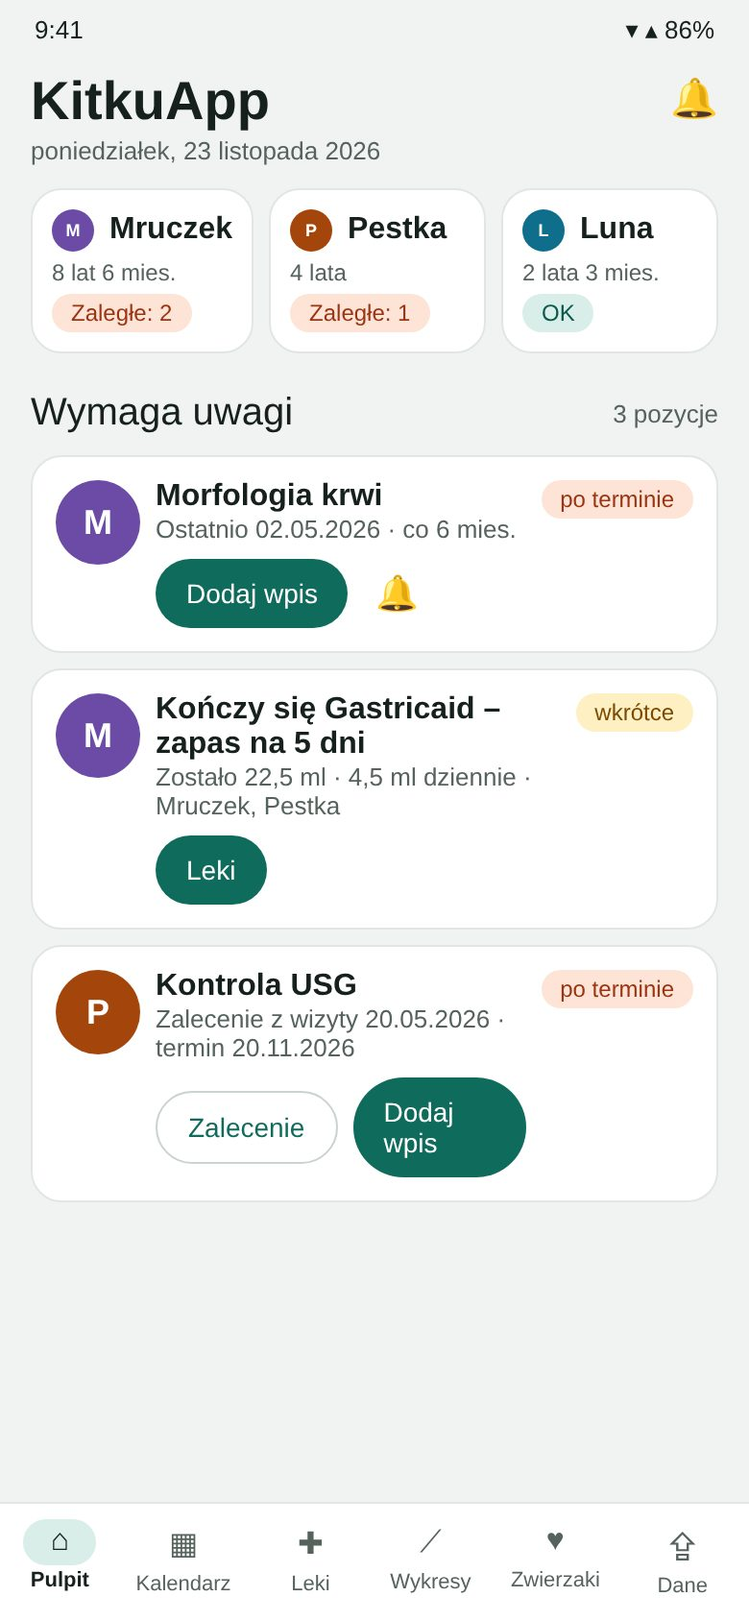
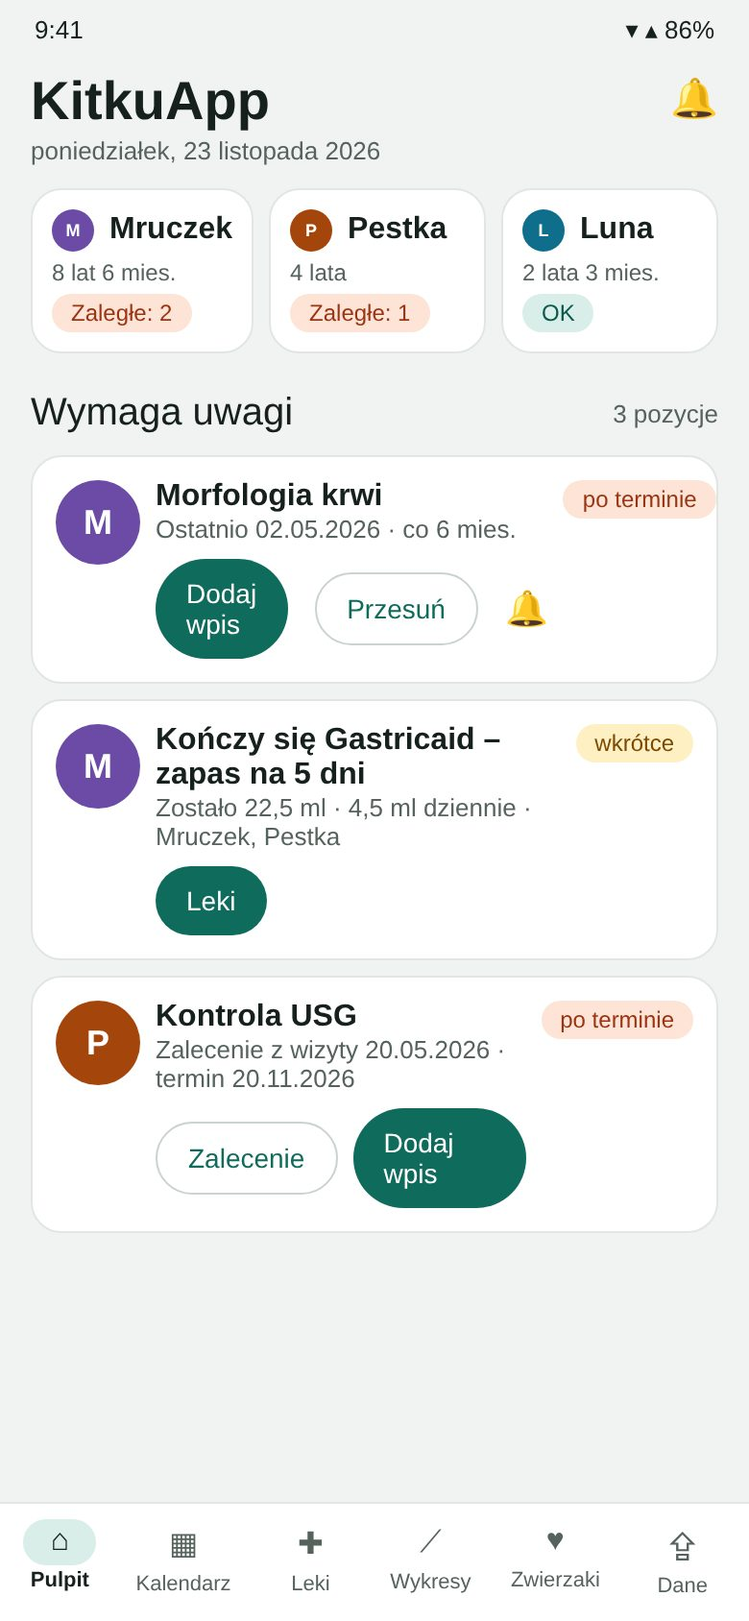
Zmiany 0.22.0, podręcznik: Przesuń na Pulpicie
Claude-Session: https://claude.ai/code/session_01Lz8gJxS2uki7r8oLhaRRUg

diff --git a/zmiany/index.html b/zmiany/index.html
@@ -8,5 +8,5 @@ main{max-width:760px;margin:0 auto;padding:clamp(28px,5vw,56px) max(5vw,18px) 64
 h1{font-size:clamp(30px,5vw,40px);line-height:1.1;margin:8px 0 18px}.ver{border-top:1px solid var(--line);padding:14px 0 4px}
 .ver h2{font-size:20px;margin:0 0 4px}.ver h2 span{font-size:15px;font-weight:400;color:var(--mut);margin-left:8px}ul{padding-left:22px;margin:6px 0}li{margin:4px 0}</style></head><body><main>
 <p><a href="../">← KitkuApp</a></p><h1>Historia zmian</h1>
-<section class="ver"><h2>0.21.2 <span>25.11.2026</span></h2><ul><li>Ocena bólu otwiera się jako zwykły ekran aplikacji – przycisk „Zapisz” jest zawsze nad dolnym paskiem i nie chowa się pod przyciskami telefonu.</li><li>Skrót „Oceń ból z mimiki pyszczka” w profilu kota i w Wykresach.</li></ul></section><section class="ver"><h2>0.21.1 <span>25.11.2026</span></h2><ul><li>Ocena bólu: ekran mieści się nad paskiem nawigacji telefonu – przycisk „Zapisz” jest zawsze dostępny; krótszy komunikat o progu bólu.</li></ul></section><section class="ver"><h2>0.21.0 <span>25.11.2026</span></h2><ul><li>Nowy pomiar domowy dla kotów: „Ocena bólu (mimika)” według Feline Grimace Scale – 5 cech pyszczka (uszy, oczy, pyszczek, wąsy, głowa) z ilustracjami 0 / 1 / 2.</li><li>Cechę, której nie widać, można pominąć (najwyżej 2) – wynik przeliczy się do skali 0–10.</li><li>Wynik trafia na wykres; od 4/10 jest poza normą, a aplikacja przypomina o kontakcie z lekarzem weterynarii.</li></ul></section><section class="ver"><h2>0.20.2 <span>25.11.2026</span></h2><ul><li>O aplikacji: pod linkiem do listy zmian jest link do podręcznika użytkownika.</li></ul></section><section class="ver"><h2>0.20.1 <span>24.11.2026</span></h2><ul><li>Wykresy: „Dodaj pomiar” jest teraz nad listą wcześniejszych pomiarów.</li><li>Pomiary domowe: usunięte ciśnienie rozkurczowe (u kotów ocenia się głównie skurczowe). Wartości rozkurczowe z wypisów nadal są na wykresach.</li></ul></section><section class="ver"><h2>0.20.0 <span>24.11.2026</span></h2><ul><li>Wykresy na osi czasu: punkty w odstępach zgodnych z datami, na osi lata (po przybliżeniu półrocza i kwartały).</li><li>Domyślnie widać ostatnie 3 lata; gdy pomiary obejmują krótszy okres – wszystkie.</li><li>Przeciągnięcie wykresu w lewo lub w prawo przesuwa widok w czasie; strzałki ‹ › w rogach pokazują, że są starsze lub nowsze pomiary.</li><li>Suwak pod wykresem przybliża od „wszystko” do 3 miesięcy; „↺ Domyślny widok” wraca do 3 lat.</li></ul></section><section class="ver"><h2>0.19.2 <span>24.11.2026</span></h2><ul><li>Wykresy: parametry morfologii w kolejności jak na wydruku z analizatora (WBC, BAS%, BAS, NEU%, NEU … PLT, MPV, PDW, PCT), pozostałe pod nimi alfabetycznie.</li></ul></section><section class="ver"><h2>0.19.1 <span>24.11.2026</span></h2><ul><li>Wykresy: ten sam wynik zapisany w dwóch dokumentach z jednego dnia pokazuje się raz (bez nakładających się etykiet).</li><li>Parametry podawane w % (np. NEU %) mają własny wykres, osobno od wartości bezwzględnych.</li><li>Lista parametrów: bez pustych dopisków „też:”.</li></ul></section><section class="ver"><h2>0.19.0 <span>24.11.2026</span></h2><ul><li>Wykresy: wykres od razu pod wyborem zwierzaka. Dotknięcie nazwy parametru otwiera wybór, strzałki ‹ › przechodzą do sąsiednich parametrów z tej samej grupy.</li><li>Pod wykresem skróty: parametry poza normą w ostatnich wynikach i przypięte gwiazdką.</li><li>„Wszystkie parametry” – lista z wyszukiwarką (także po innych nazwach, np. „hematokryt”), pogrupowana jak badania, z ostatnią wartością.</li><li>Ten sam parametr z różnych laboratoriów (np. HCT i Hematokryt, PLT i Płytki krwi) oraz nazwy rozbite przy odczycie PDF trafiają na jeden wykres.</li></ul></section><section class="ver"><h2>0.18.2 <span>24.11.2026</span></h2><ul><li>Profil: „Archiwum diet” i „Historia fizjoterapii” przeniesione pod karty – przycisk dodawania w nagłówku nie łamie się już na wąskich ekranach.</li></ul></section><section class="ver"><h2>0.18.1 <span>23.11.2026</span></h2><ul><li>Poprawka: po przesunięciu profilu na innego zwierzaka „Terminy badań” pokazywały daty poprzednio oglądanego zwierzaka.</li></ul></section><section class="ver"><h2>0.18.0 <span>23.11.2026</span></h2><ul><li>Wizyta z datą w przyszłości wymaga tylko tytułu. Gdy termin minie, jest wyróżniona w historii i na Pulpicie z prośbą o wyniki – „Uzupełnij” albo „Dodaj skan” (skan z tego dnia uzupełni ten wpis).</li><li>Dieta: w profilu tylko trwające diety, zakończone w „Archiwum diet”. „Zakończ dietę” od razu przenosi ją do archiwum.</li><li>Fizjoterapia przeniesiona z kategorii badań do profilu zwierzaka – sekcja pod dietą, z własną historią.</li><li>Przesunięcie profilu w lewo lub w prawo przechodzi do kolejnego zwierzaka.</li><li>Kategorie badań przy dodawaniu wpisu pogrupowane (krew i mocz, obrazowe, wizyty) i zajmują mniej miejsca.</li></ul></section><section class="ver"><h2>0.17.0 <span>23.11.2026</span></h2><ul><li>Ręczny wpis: osobne pola Opis i Zalecenia (zalecenia tworzą przypomnienia), wyniki wpisywane wierszami – z podpowiedzią parametru, jednostką, normą i strzałką poza normą. Badanie z wynikami wymaga co najmniej jednego wyniku. Wyniki trafiają na wykresy i do stanu zdrowia.</li><li>Nowa kategoria: Fizjoterapia (opis zabiegów i zalecenia).</li><li>Stan zdrowia: dotknięcie pozycji otwiera badanie, przy wartościach poza normą widać normę, a zalecenia typu „kontrola za 12 miesięcy” nie są liczone jako problem.</li><li>Wybór zwierzaka ze zdjęciem i kolorem zwierzaka w tle (kalendarz, leki, wykresy, wpisy).</li><li>Leki: sekcja „Historia diet” nad historią leczenia.</li></ul></section><section class="ver"><h2>0.16.0 <span>23.11.2026</span></h2><ul><li>Profil zwierzaka: sekcja „Dieta” (nazwa, od–do lub na stałe, reakcja na dietę). Po zakończeniu dieta przechodzi do historii.</li><li>Wyszukiwanie w historii zwierzaka – w tytułach i opisach wpisów, na bieżąco podczas pisania.</li><li>Historia podzielona na roczniki – kreska z rokiem na granicy lat.</li><li>Po powrocie z otwartego wpisu profil wraca w to samo miejsce historii.</li></ul></section><section class="ver"><h2>0.15.2 <span>23.11.2026</span></h2><ul><li>Lepszy import historii wizyt: opis badania klinicznego zachowuje podział na punkty, zawinięte zdania są sklejane, a wizyty z samymi załącznikami są pomijane.</li><li>Poprawnie odczytywane wyniki, w których wartość jest sklejona z nazwą parametru (np. SAA), wyniki „w toku” są pomijane, a „Wartość” dostaje nazwę badania.</li><li>Interpretacja wyniku przerwana podziałem strony nie gubi ostatniego zdania.</li></ul></section><section class="ver"><h2>0.15.1 <span>23.11.2026</span></h2><ul><li>Nowa ikona aplikacji.</li><li>Zakładka „Dane i ustawienia” – czytelniej rozdzielone sekcje przywracania kopii i wyglądu.</li></ul></section><section class="ver"><h2>0.15.0 <span>22.11.2026</span></h2><ul><li>Normy badania moczu dla kotów i psów, gdy laboratorium ich nie podało: ciężar właściwy, pH, stosunek białko/kreatynina (z rozróżnieniem wartości granicznej i białkomoczu), erytrocyty i leukocyty w osadzie.</li><li>Wyniki opisowe (glukoza, ketony, krew, bilirubina, bakterie, wałeczki, nabłonki, liczne kryształy) oznaczane jako nieprawidłowe, z normą słowną obok. Białko z paska u kota – tylko informacyjnie.</li><li>Nieprawidłowe wyniki moczu trafiają do podsumowania stanu zdrowia.</li></ul></section><section class="ver"><h2>0.14.0 <span>22.11.2026</span></h2><ul><li>Ciemny motyw: przełącznik w zakładce Dane (sekcja „Wygląd”). Domyślnie aplikacja dopasowuje się do ustawień telefonu.</li></ul></section><section class="ver"><h2>0.13.1 <span>22.11.2026</span></h2><ul><li>Lepszy import zeskanowanych kart wizyt: rozpoznawane sekcje „Opis badania”, „Zabiegi” i „Zastosowane leki” mimo ikon przy nagłówkach, a także data wizyty zaznaczona zakreślaczem.</li><li>Tomografia wpisana w zabiegach oznacza wpis kategorią TK.</li></ul></section><section class="ver"><h2>0.13.0 <span>22.11.2026</span></h2><ul><li>Profil zwierzaka: nowa sekcja „Stan zdrowia” – podsumowanie tworzone automatycznie z ostatnich wyników każdego badania (wartości poza normą, wnioski z badań obrazowych, na końcu badania w normie). Odświeża się samo po dodaniu nowych wyników.</li><li>Pod podsumowaniem pole „Moje notatki” na własne uwagi o zdrowiu.</li></ul></section><section class="ver"><h2>0.12.5 <span>22.11.2026</span></h2><ul><li>Import opisów tomografii komputerowej: rozpoznawane imię zwierzęcia, data i tytuł badania, lekarz opisujący i kierujący, a do wpisu trafia pełny opis i wnioski (bez stopek i stron z obrazami).</li><li>Nowa kategoria badań: Tomografia komputerowa.</li></ul></section><section class="ver"><h2>0.12.4 <span>22.11.2026</span></h2><ul><li>Kalendarz: dotknięcie nazwy miesiąca otwiera wybór miesiąca i roku.</li><li>Kalendarz: usunięta karta „Terminy badań” – terminy są w profilach zwierzaków, a w widoku miesiąca nadal widać je jako kółka.</li><li>Po powrocie z otwartego wpisu kalendarz pokazuje ten sam miesiąc, dzień i filtr.</li></ul></section><section class="ver"><h2>0.12.3 <span>22.11.2026</span></h2><ul><li>Leki podawane co kilka dni: w oknie leku pole „Podawaj co … dni”, na liście informacja o następnej dawce, a zapasy liczą zużycie tylko w dni podania.</li></ul></section><section class="ver"><h2>0.12.2 <span>22.11.2026</span></h2><ul><li>Sekcja Zapasy na karcie Leki pokazuje wszystkie monitorowane leki, niezależnie od wybranego zwierzaka, razem z informacją, kto je dostaje.</li></ul></section><section class="ver"><h2>0.12.1 <span>22.11.2026</span></h2><ul><li>W przypomnieniu jednorazowym termin można ustawić wpisując „Za … miesięcy” – data przelicza się sama.</li></ul></section><section class="ver"><h2>0.12.0 <span>22.11.2026</span></h2><ul><li>Zapasy leków: zaznacz „Monitoruj zużycie”, wpisz posiadaną ilość, a karta Leki pokaże, na ile dni wystarczy zapas. Zużycie liczone jest ze wszystkich zwierzaków, które dostają ten sam lek.</li><li>Przypomnienie na Pulpicie i powiadomienie, gdy zapas leku kończy się w ciągu 7 dni.</li><li>Dawka wpisywana jako liczba z jednostką (szt, ml, g).</li><li>Nowy lek można dodać od razu kilku zwierzakom i o kilku godzinach.</li><li>Podpowiedzi nazw leków już używanych (także przy literówce) – z dawką i jednostką.</li></ul></section><section class="ver"><h2>0.11.6 <span>20.11.2026</span></h2><ul><li>Opisy badań USG importowane w całości, w akapitach, z kategorią „USG jamy brzusznej”.</li><li>Poprawione rozpoznawanie imion i słów w wypisach, w których PDF rozdzielał wyrazy (np. „Zw ierzę”).</li></ul></section><section class="ver"><h2>0.11.5 <span>20.11.2026</span></h2><ul><li>Uwaga o konsultacji częstotliwości badań z weterynarzem przeniesiona nad przypomnienia jednorazowe.</li><li>W zakładce Dane przy numerze wersji link do listy zmian.</li></ul></section><section class="ver"><h2>0.11.4 <span>20.11.2026</span></h2><ul><li>Przypomnienie o USG jamy brzusznej domyślnie co 12 miesięcy (wcześniej 6).</li><li>W ustawieniach przypomnień uwaga, że częstotliwość badań warto ustalić z lekarzem weterynarii.</li></ul></section><section class="ver"><h2>0.11.3 <span>20.11.2026</span></h2><ul><li>Przypomnienie o echu serca domyślnie co 12 miesięcy (wcześniej 24), zgodnie z zaleceniem corocznej kontroli kotów z ras predysponowanych i z łagodną kardiomiopatią.</li></ul></section><section class="ver"><h2>0.11.2 <span>19.11.2026</span></h2><ul><li>Przy dodawaniu wpisu i imporcie nie trzeba już wybierać rodzaju (wizyta, badanie, telefon, pomiar domowy) — aplikacja ustawia go sama.</li></ul></section><section class="ver"><h2>0.11.1 <span>19.11.2026</span></h2><ul><li>Profil zwierzaka: dotknięcie badania w „Terminach badań” pokazuje historię tylko z tym badaniem.</li></ul></section><section class="ver"><h2>0.11.0 <span>19.11.2026</span></h2><ul><li>Import wypisów z gabinetu kardiologicznego: cały wynik echa serca zapisany w opisie wizyty, wywiad, waga, ciśnienie i zalecenia (np. kontrolne echo po 3–4 miesiącach).</li><li>Imię z wypisu dopasowywane mimo drobnej różnicy w pisowni (np. Papaya ↔ Papaja).</li></ul></section><section class="ver"><h2>0.10.6 <span>19.11.2026</span></h2><ul><li>Numer wersji rośnie automatycznie z każdym wydaniem (porządek przy publikacji w Google Play).</li></ul></section><section class="ver"><h2>0.10.5 <span>19.11.2026</span></h2><ul><li>Polityka prywatności na stronie aplikacji (GitHub Pages), link w zakładce Dane.</li></ul></section><section class="ver"><h2>0.10.4 <span>18.11.2026</span></h2><ul><li>Import kilku dużych kartotek naraz bez zawieszania aplikacji: zapis w tle, pliki czytane po kolei, lista wizyt pokazywana porcjami, przycisk usuwania duplikatów z listy.</li></ul></section><section class="ver"><h2>0.10.3 <span>17.11.2026</span></h2><ul><li>Edycja i usuwanie przypomnień: zmiana nazwy i okresu, usuwanie własnych i domyślnych (z możliwością przywrócenia), edycja przypomnień jednorazowych.</li></ul></section><section class="ver"><h2>0.10.2 <span>17.11.2026</span></h2><ul><li>Zwierzaki na Pulpicie i w zakładce Zwierzaki ułożone od tych, które najbardziej potrzebują badań.</li><li>Terminy badań w profilu od zaległych do najodleglejszych.</li><li>Leki pogrupowane według godziny podawania.</li></ul></section><section class="ver"><h2>0.10.1 <span>17.11.2026</span></h2><ul><li>Nowe przypomnienie: pomiar ciśnienia co 6 miesięcy.</li></ul></section><section class="ver"><h2>0.10.0 <span>17.11.2026</span></h2><ul><li>Przygotowanie do Google Play: nowy identyfikator aplikacji, Android 16, polityka prywatności.</li></ul></section><section class="ver"><h2>0.9.2 <span>17.11.2026</span></h2><ul><li>Przypomnienia jednorazowe nie mnożą się po imporcie starszych kartotek; zamknięte można ukryć lub usunąć.</li></ul></section><section class="ver"><h2>0.9.1 <span>17.11.2026</span></h2><ul><li>Ręczna poprawa zaimportowanych wyników: nazwa, wartość, jednostka, norma, dodawanie i usuwanie pozycji.</li><li>Poprawny tytuł badania, gdy tabela zaczyna się na następnej stronie wypisu.</li></ul></section><section class="ver"><h2>0.9.0 <span>17.11.2026</span></h2><ul><li>Psy obok kotów, z typowymi wartościami tętna, oddechów i ciśnienia dla psa.</li><li>Przypomnienia jednorazowe z zaleceń w wypisie (np. „powtórzyć USG za miesiąc”) i po wynikach poza normą.</li></ul></section><section class="ver"><h2>0.8.0 <span>17.11.2026</span></h2><ul><li>Zdjęcia zwierząt z przesuwaniem i kadrowaniem.</li><li>Ciśnienie skurczowe, rozkurczowe i tętno w pomiarach domowych i z wypisów.</li></ul></section><section class="ver"><h2>0.7 <span>17.11.2026</span></h2><ul><li>Nowa zakładka Leki: godzina podawania, dawka, uwagi, daty oraz historia leczenia.</li><li>Czytelniejszy dolny pasek nawigacji.</li></ul></section><section class="ver"><h2>0.6 <span>17.11.2026</span></h2><ul><li>Nowa nazwa: KitkuApp, przycisk „Postaw kotkom karmę”.</li><li>Przypomnienie o echu serca (co 24 miesiące) i własne przypomnienia.</li></ul></section><section class="ver"><h2>0.5 <span>17.11.2026</span></h2><ul><li>Odczyt skanów PDF i zdjęć wypisów (rozpoznawanie tekstu w telefonie).</li><li>Pomiary domowe: oddechy w spoczynku, biegunka, wymioty; zwijane kategorie wykresów.</li><li>Zakładka Dane z importem i kopią zapasową, dzwonek do ustawień przypomnień, do 6 zwierzaków widocznych bez przewijania.</li></ul></section><section class="ver"><h2>0.4 <span>16.11.2026</span></h2><ul><li>Import zbiorczych wypisów z wieloma wizytami w jednym pliku.</li><li>Jednostki wyników przeliczane na wspólne, dokładniejszy odczyt tabel z wynikami.</li></ul></section><section class="ver"><h2>0.3 <span>16.11.2026</span></h2><ul><li>Pierwsza wersja: kalendarz badań z przypomnieniami, profile kotów z wiekiem, import wypisów PDF, wykresy wyników, kopia zapasowa na Dysku Google.</li></ul></section>
+<section class="ver"><h2>0.22.0 <span>25.11.2026</span></h2><ul><li>Pulpit: przy zaległym przypomnieniu jest przycisk „Przesuń” – przypomni ponownie za 1, 2, 3 albo 6 miesięcy. Każdy zaległy termin można przesunąć raz; nowy wpis z tym badaniem liczy termin od nowa.</li><li>Przesunięty termin jest oznaczony w profilu zwierzaka i w opisie przypomnienia.</li></ul></section><section class="ver"><h2>0.21.2 <span>25.11.2026</span></h2><ul><li>Ocena bólu otwiera się jako zwykły ekran aplikacji – przycisk „Zapisz” jest zawsze nad dolnym paskiem i nie chowa się pod przyciskami telefonu.</li><li>Skrót „Oceń ból z mimiki pyszczka” w profilu kota i w Wykresach.</li></ul></section><section class="ver"><h2>0.21.1 <span>25.11.2026</span></h2><ul><li>Ocena bólu: ekran mieści się nad paskiem nawigacji telefonu – przycisk „Zapisz” jest zawsze dostępny; krótszy komunikat o progu bólu.</li></ul></section><section class="ver"><h2>0.21.0 <span>25.11.2026</span></h2><ul><li>Nowy pomiar domowy dla kotów: „Ocena bólu (mimika)” według Feline Grimace Scale – 5 cech pyszczka (uszy, oczy, pyszczek, wąsy, głowa) z ilustracjami 0 / 1 / 2.</li><li>Cechę, której nie widać, można pominąć (najwyżej 2) – wynik przeliczy się do skali 0–10.</li><li>Wynik trafia na wykres; od 4/10 jest poza normą, a aplikacja przypomina o kontakcie z lekarzem weterynarii.</li></ul></section><section class="ver"><h2>0.20.2 <span>25.11.2026</span></h2><ul><li>O aplikacji: pod linkiem do listy zmian jest link do podręcznika użytkownika.</li></ul></section><section class="ver"><h2>0.20.1 <span>24.11.2026</span></h2><ul><li>Wykresy: „Dodaj pomiar” jest teraz nad listą wcześniejszych pomiarów.</li><li>Pomiary domowe: usunięte ciśnienie rozkurczowe (u kotów ocenia się głównie skurczowe). Wartości rozkurczowe z wypisów nadal są na wykresach.</li></ul></section><section class="ver"><h2>0.20.0 <span>24.11.2026</span></h2><ul><li>Wykresy na osi czasu: punkty w odstępach zgodnych z datami, na osi lata (po przybliżeniu półrocza i kwartały).</li><li>Domyślnie widać ostatnie 3 lata; gdy pomiary obejmują krótszy okres – wszystkie.</li><li>Przeciągnięcie wykresu w lewo lub w prawo przesuwa widok w czasie; strzałki ‹ › w rogach pokazują, że są starsze lub nowsze pomiary.</li><li>Suwak pod wykresem przybliża od „wszystko” do 3 miesięcy; „↺ Domyślny widok” wraca do 3 lat.</li></ul></section><section class="ver"><h2>0.19.2 <span>24.11.2026</span></h2><ul><li>Wykresy: parametry morfologii w kolejności jak na wydruku z analizatora (WBC, BAS%, BAS, NEU%, NEU … PLT, MPV, PDW, PCT), pozostałe pod nimi alfabetycznie.</li></ul></section><section class="ver"><h2>0.19.1 <span>24.11.2026</span></h2><ul><li>Wykresy: ten sam wynik zapisany w dwóch dokumentach z jednego dnia pokazuje się raz (bez nakładających się etykiet).</li><li>Parametry podawane w % (np. NEU %) mają własny wykres, osobno od wartości bezwzględnych.</li><li>Lista parametrów: bez pustych dopisków „też:”.</li></ul></section><section class="ver"><h2>0.19.0 <span>24.11.2026</span></h2><ul><li>Wykresy: wykres od razu pod wyborem zwierzaka. Dotknięcie nazwy parametru otwiera wybór, strzałki ‹ › przechodzą do sąsiednich parametrów z tej samej grupy.</li><li>Pod wykresem skróty: parametry poza normą w ostatnich wynikach i przypięte gwiazdką.</li><li>„Wszystkie parametry” – lista z wyszukiwarką (także po innych nazwach, np. „hematokryt”), pogrupowana jak badania, z ostatnią wartością.</li><li>Ten sam parametr z różnych laboratoriów (np. HCT i Hematokryt, PLT i Płytki krwi) oraz nazwy rozbite przy odczycie PDF trafiają na jeden wykres.</li></ul></section><section class="ver"><h2>0.18.2 <span>24.11.2026</span></h2><ul><li>Profil: „Archiwum diet” i „Historia fizjoterapii” przeniesione pod karty – przycisk dodawania w nagłówku nie łamie się już na wąskich ekranach.</li></ul></section><section class="ver"><h2>0.18.1 <span>23.11.2026</span></h2><ul><li>Poprawka: po przesunięciu profilu na innego zwierzaka „Terminy badań” pokazywały daty poprzednio oglądanego zwierzaka.</li></ul></section><section class="ver"><h2>0.18.0 <span>23.11.2026</span></h2><ul><li>Wizyta z datą w przyszłości wymaga tylko tytułu. Gdy termin minie, jest wyróżniona w historii i na Pulpicie z prośbą o wyniki – „Uzupełnij” albo „Dodaj skan” (skan z tego dnia uzupełni ten wpis).</li><li>Dieta: w profilu tylko trwające diety, zakończone w „Archiwum diet”. „Zakończ dietę” od razu przenosi ją do archiwum.</li><li>Fizjoterapia przeniesiona z kategorii badań do profilu zwierzaka – sekcja pod dietą, z własną historią.</li><li>Przesunięcie profilu w lewo lub w prawo przechodzi do kolejnego zwierzaka.</li><li>Kategorie badań przy dodawaniu wpisu pogrupowane (krew i mocz, obrazowe, wizyty) i zajmują mniej miejsca.</li></ul></section><section class="ver"><h2>0.17.0 <span>23.11.2026</span></h2><ul><li>Ręczny wpis: osobne pola Opis i Zalecenia (zalecenia tworzą przypomnienia), wyniki wpisywane wierszami – z podpowiedzią parametru, jednostką, normą i strzałką poza normą. Badanie z wynikami wymaga co najmniej jednego wyniku. Wyniki trafiają na wykresy i do stanu zdrowia.</li><li>Nowa kategoria: Fizjoterapia (opis zabiegów i zalecenia).</li><li>Stan zdrowia: dotknięcie pozycji otwiera badanie, przy wartościach poza normą widać normę, a zalecenia typu „kontrola za 12 miesięcy” nie są liczone jako problem.</li><li>Wybór zwierzaka ze zdjęciem i kolorem zwierzaka w tle (kalendarz, leki, wykresy, wpisy).</li><li>Leki: sekcja „Historia diet” nad historią leczenia.</li></ul></section><section class="ver"><h2>0.16.0 <span>23.11.2026</span></h2><ul><li>Profil zwierzaka: sekcja „Dieta” (nazwa, od–do lub na stałe, reakcja na dietę). Po zakończeniu dieta przechodzi do historii.</li><li>Wyszukiwanie w historii zwierzaka – w tytułach i opisach wpisów, na bieżąco podczas pisania.</li><li>Historia podzielona na roczniki – kreska z rokiem na granicy lat.</li><li>Po powrocie z otwartego wpisu profil wraca w to samo miejsce historii.</li></ul></section><section class="ver"><h2>0.15.2 <span>23.11.2026</span></h2><ul><li>Lepszy import historii wizyt: opis badania klinicznego zachowuje podział na punkty, zawinięte zdania są sklejane, a wizyty z samymi załącznikami są pomijane.</li><li>Poprawnie odczytywane wyniki, w których wartość jest sklejona z nazwą parametru (np. SAA), wyniki „w toku” są pomijane, a „Wartość” dostaje nazwę badania.</li><li>Interpretacja wyniku przerwana podziałem strony nie gubi ostatniego zdania.</li></ul></section><section class="ver"><h2>0.15.1 <span>23.11.2026</span></h2><ul><li>Nowa ikona aplikacji.</li><li>Zakładka „Dane i ustawienia” – czytelniej rozdzielone sekcje przywracania kopii i wyglądu.</li></ul></section><section class="ver"><h2>0.15.0 <span>22.11.2026</span></h2><ul><li>Normy badania moczu dla kotów i psów, gdy laboratorium ich nie podało: ciężar właściwy, pH, stosunek białko/kreatynina (z rozróżnieniem wartości granicznej i białkomoczu), erytrocyty i leukocyty w osadzie.</li><li>Wyniki opisowe (glukoza, ketony, krew, bilirubina, bakterie, wałeczki, nabłonki, liczne kryształy) oznaczane jako nieprawidłowe, z normą słowną obok. Białko z paska u kota – tylko informacyjnie.</li><li>Nieprawidłowe wyniki moczu trafiają do podsumowania stanu zdrowia.</li></ul></section><section class="ver"><h2>0.14.0 <span>22.11.2026</span></h2><ul><li>Ciemny motyw: przełącznik w zakładce Dane (sekcja „Wygląd”). Domyślnie aplikacja dopasowuje się do ustawień telefonu.</li></ul></section><section class="ver"><h2>0.13.1 <span>22.11.2026</span></h2><ul><li>Lepszy import zeskanowanych kart wizyt: rozpoznawane sekcje „Opis badania”, „Zabiegi” i „Zastosowane leki” mimo ikon przy nagłówkach, a także data wizyty zaznaczona zakreślaczem.</li><li>Tomografia wpisana w zabiegach oznacza wpis kategorią TK.</li></ul></section><section class="ver"><h2>0.13.0 <span>22.11.2026</span></h2><ul><li>Profil zwierzaka: nowa sekcja „Stan zdrowia” – podsumowanie tworzone automatycznie z ostatnich wyników każdego badania (wartości poza normą, wnioski z badań obrazowych, na końcu badania w normie). Odświeża się samo po dodaniu nowych wyników.</li><li>Pod podsumowaniem pole „Moje notatki” na własne uwagi o zdrowiu.</li></ul></section><section class="ver"><h2>0.12.5 <span>22.11.2026</span></h2><ul><li>Import opisów tomografii komputerowej: rozpoznawane imię zwierzęcia, data i tytuł badania, lekarz opisujący i kierujący, a do wpisu trafia pełny opis i wnioski (bez stopek i stron z obrazami).</li><li>Nowa kategoria badań: Tomografia komputerowa.</li></ul></section><section class="ver"><h2>0.12.4 <span>22.11.2026</span></h2><ul><li>Kalendarz: dotknięcie nazwy miesiąca otwiera wybór miesiąca i roku.</li><li>Kalendarz: usunięta karta „Terminy badań” – terminy są w profilach zwierzaków, a w widoku miesiąca nadal widać je jako kółka.</li><li>Po powrocie z otwartego wpisu kalendarz pokazuje ten sam miesiąc, dzień i filtr.</li></ul></section><section class="ver"><h2>0.12.3 <span>22.11.2026</span></h2><ul><li>Leki podawane co kilka dni: w oknie leku pole „Podawaj co … dni”, na liście informacja o następnej dawce, a zapasy liczą zużycie tylko w dni podania.</li></ul></section><section class="ver"><h2>0.12.2 <span>22.11.2026</span></h2><ul><li>Sekcja Zapasy na karcie Leki pokazuje wszystkie monitorowane leki, niezależnie od wybranego zwierzaka, razem z informacją, kto je dostaje.</li></ul></section><section class="ver"><h2>0.12.1 <span>22.11.2026</span></h2><ul><li>W przypomnieniu jednorazowym termin można ustawić wpisując „Za … miesięcy” – data przelicza się sama.</li></ul></section><section class="ver"><h2>0.12.0 <span>22.11.2026</span></h2><ul><li>Zapasy leków: zaznacz „Monitoruj zużycie”, wpisz posiadaną ilość, a karta Leki pokaże, na ile dni wystarczy zapas. Zużycie liczone jest ze wszystkich zwierzaków, które dostają ten sam lek.</li><li>Przypomnienie na Pulpicie i powiadomienie, gdy zapas leku kończy się w ciągu 7 dni.</li><li>Dawka wpisywana jako liczba z jednostką (szt, ml, g).</li><li>Nowy lek można dodać od razu kilku zwierzakom i o kilku godzinach.</li><li>Podpowiedzi nazw leków już używanych (także przy literówce) – z dawką i jednostką.</li></ul></section><section class="ver"><h2>0.11.6 <span>20.11.2026</span></h2><ul><li>Opisy badań USG importowane w całości, w akapitach, z kategorią „USG jamy brzusznej”.</li><li>Poprawione rozpoznawanie imion i słów w wypisach, w których PDF rozdzielał wyrazy (np. „Zw ierzę”).</li></ul></section><section class="ver"><h2>0.11.5 <span>20.11.2026</span></h2><ul><li>Uwaga o konsultacji częstotliwości badań z weterynarzem przeniesiona nad przypomnienia jednorazowe.</li><li>W zakładce Dane przy numerze wersji link do listy zmian.</li></ul></section><section class="ver"><h2>0.11.4 <span>20.11.2026</span></h2><ul><li>Przypomnienie o USG jamy brzusznej domyślnie co 12 miesięcy (wcześniej 6).</li><li>W ustawieniach przypomnień uwaga, że częstotliwość badań warto ustalić z lekarzem weterynarii.</li></ul></section><section class="ver"><h2>0.11.3 <span>20.11.2026</span></h2><ul><li>Przypomnienie o echu serca domyślnie co 12 miesięcy (wcześniej 24), zgodnie z zaleceniem corocznej kontroli kotów z ras predysponowanych i z łagodną kardiomiopatią.</li></ul></section><section class="ver"><h2>0.11.2 <span>19.11.2026</span></h2><ul><li>Przy dodawaniu wpisu i imporcie nie trzeba już wybierać rodzaju (wizyta, badanie, telefon, pomiar domowy) — aplikacja ustawia go sama.</li></ul></section><section class="ver"><h2>0.11.1 <span>19.11.2026</span></h2><ul><li>Profil zwierzaka: dotknięcie badania w „Terminach badań” pokazuje historię tylko z tym badaniem.</li></ul></section><section class="ver"><h2>0.11.0 <span>19.11.2026</span></h2><ul><li>Import wypisów z gabinetu kardiologicznego: cały wynik echa serca zapisany w opisie wizyty, wywiad, waga, ciśnienie i zalecenia (np. kontrolne echo po 3–4 miesiącach).</li><li>Imię z wypisu dopasowywane mimo drobnej różnicy w pisowni (np. Papaya ↔ Papaja).</li></ul></section><section class="ver"><h2>0.10.6 <span>19.11.2026</span></h2><ul><li>Numer wersji rośnie automatycznie z każdym wydaniem (porządek przy publikacji w Google Play).</li></ul></section><section class="ver"><h2>0.10.5 <span>19.11.2026</span></h2><ul><li>Polityka prywatności na stronie aplikacji (GitHub Pages), link w zakładce Dane.</li></ul></section><section class="ver"><h2>0.10.4 <span>18.11.2026</span></h2><ul><li>Import kilku dużych kartotek naraz bez zawieszania aplikacji: zapis w tle, pliki czytane po kolei, lista wizyt pokazywana porcjami, przycisk usuwania duplikatów z listy.</li></ul></section><section class="ver"><h2>0.10.3 <span>17.11.2026</span></h2><ul><li>Edycja i usuwanie przypomnień: zmiana nazwy i okresu, usuwanie własnych i domyślnych (z możliwością przywrócenia), edycja przypomnień jednorazowych.</li></ul></section><section class="ver"><h2>0.10.2 <span>17.11.2026</span></h2><ul><li>Zwierzaki na Pulpicie i w zakładce Zwierzaki ułożone od tych, które najbardziej potrzebują badań.</li><li>Terminy badań w profilu od zaległych do najodleglejszych.</li><li>Leki pogrupowane według godziny podawania.</li></ul></section><section class="ver"><h2>0.10.1 <span>17.11.2026</span></h2><ul><li>Nowe przypomnienie: pomiar ciśnienia co 6 miesięcy.</li></ul></section><section class="ver"><h2>0.10.0 <span>17.11.2026</span></h2><ul><li>Przygotowanie do Google Play: nowy identyfikator aplikacji, Android 16, polityka prywatności.</li></ul></section><section class="ver"><h2>0.9.2 <span>17.11.2026</span></h2><ul><li>Przypomnienia jednorazowe nie mnożą się po imporcie starszych kartotek; zamknięte można ukryć lub usunąć.</li></ul></section><section class="ver"><h2>0.9.1 <span>17.11.2026</span></h2><ul><li>Ręczna poprawa zaimportowanych wyników: nazwa, wartość, jednostka, norma, dodawanie i usuwanie pozycji.</li><li>Poprawny tytuł badania, gdy tabela zaczyna się na następnej stronie wypisu.</li></ul></section><section class="ver"><h2>0.9.0 <span>17.11.2026</span></h2><ul><li>Psy obok kotów, z typowymi wartościami tętna, oddechów i ciśnienia dla psa.</li><li>Przypomnienia jednorazowe z zaleceń w wypisie (np. „powtórzyć USG za miesiąc”) i po wynikach poza normą.</li></ul></section><section class="ver"><h2>0.8.0 <span>17.11.2026</span></h2><ul><li>Zdjęcia zwierząt z przesuwaniem i kadrowaniem.</li><li>Ciśnienie skurczowe, rozkurczowe i tętno w pomiarach domowych i z wypisów.</li></ul></section><section class="ver"><h2>0.7 <span>17.11.2026</span></h2><ul><li>Nowa zakładka Leki: godzina podawania, dawka, uwagi, daty oraz historia leczenia.</li><li>Czytelniejszy dolny pasek nawigacji.</li></ul></section><section class="ver"><h2>0.6 <span>17.11.2026</span></h2><ul><li>Nowa nazwa: KitkuApp, przycisk „Postaw kotkom karmę”.</li><li>Przypomnienie o echu serca (co 24 miesiące) i własne przypomnienia.</li></ul></section><section class="ver"><h2>0.5 <span>17.11.2026</span></h2><ul><li>Odczyt skanów PDF i zdjęć wypisów (rozpoznawanie tekstu w telefonie).</li><li>Pomiary domowe: oddechy w spoczynku, biegunka, wymioty; zwijane kategorie wykresów.</li><li>Zakładka Dane z importem i kopią zapasową, dzwonek do ustawień przypomnień, do 6 zwierzaków widocznych bez przewijania.</li></ul></section><section class="ver"><h2>0.4 <span>16.11.2026</span></h2><ul><li>Import zbiorczych wypisów z wieloma wizytami w jednym pliku.</li><li>Jednostki wyników przeliczane na wspólne, dokładniejszy odczyt tabel z wynikami.</li></ul></section><section class="ver"><h2>0.3 <span>16.11.2026</span></h2><ul><li>Pierwsza wersja: kalendarz badań z przypomnieniami, profile kotów z wiekiem, import wypisów PDF, wykresy wyników, kopia zapasowa na Dysku Google.</li></ul></section>
 </main></body></html>

diff --git a/podrecznik/index.html b/podrecznik/index.html
@@ -36,9 +36,9 @@ footer{border-top:1px solid var(--line);margin-top:30px;padding-top:14px}
 <main>
 <p class="mut">Zrzuty przedstawiają uproszczony wygląd aplikacji – mają zobrazować jej możliwości, więc szczegóły na telefonie mogą wyglądać nieco inaczej.</p>
 <nav class="toc"><a href="#pulpit">Pulpit</a><a href="#zwierzaki">Zwierzaki</a><a href="#profil">Profil zwierzaka</a><a href="#historia">Historia zwierzaka</a><a href="#wpis-nowy">Nowy wpis</a><a href="#wpis">Szczegóły wpisu</a><a href="#import">Import wyników</a><a href="#kalendarz">Kalendarz</a><a href="#leki">Leki</a><a href="#lek-okno">Nowy lek</a><a href="#wykresy">Wykresy</a><a href="#ocena-bolu">Ocena bólu (mimika)</a><a href="#przypomnienia">Przypomnienia</a><a href="#dane">Kopia, wygląd i informacje</a></nav>
-<section class="scr" id="pulpit" style="--cycle:9.6s">
-<div class="shot"><img src="img/pulpit.jpg" alt="Ekran Pulpit z przykładowymi danymi" width="780" height="1688" loading="lazy"><span class="tap" data-n="1" style="left:90.52%;top:5.04%;--d:0.0s" aria-hidden="true">1</span><span class="tap" data-n="2" style="left:5.13%;top:12.09%;--d:1.6s" aria-hidden="true">2</span><span class="tap" data-n="3" style="left:21.79%;top:34.95%;--d:3.2s" aria-hidden="true">3</span><span class="tap" data-n="4" style="left:51.15%;top:35.78%;--d:4.8s" aria-hidden="true">4</span><span class="tap" data-n="5" style="left:21.79%;top:52.01%;--d:6.4s" aria-hidden="true">5</span><span class="tap" data-n="6" style="left:21.79%;top:67.77%;--d:8.0s" aria-hidden="true">6</span></div>
-<div><h2>Pulpit</h2><p>Pulpit to ekran startowy. Od razu widać, które zwierzaki wymagają uwagi i co trzeba zrobić.</p><ol class="steps"><li data-n="1"><span class="n">1</span><span>Dzwonek otwiera <b>ustawienia przypomnień</b>: co ile miesięcy które badanie, przypomnienia jednorazowe i powiadomienia.</span></li><li data-n="2"><span class="n">2</span><span>Kafelek zwierzaka otwiera jego <b>profil</b>. Kafelki są ułożone od zwierzaka, który najpilniej wymaga uwagi. „Zaległe” to liczba badań po terminie.</span></li><li data-n="3"><span class="n">3</span><span><b>Dodaj wpis</b> otwiera formularz wizyty od razu z właściwym zwierzakiem i badaniem.</span></li><li data-n="4"><span class="n">4</span><span>Dzwonek przy alercie pokazuje go od razu jako powiadomienie w telefonie – tak to będzie wyglądać.</span></li><li data-n="5"><span class="n">5</span><span>Alert o kończącym się leku prowadzi do karty <b>Leki</b>, gdzie uzupełnisz zapas.</span></li><li data-n="6"><span class="n">6</span><span><b>Zalecenie</b> otwiera wpis z wizyty, z którego pochodzi przypomnienie.</span></li></ol></div></section><section class="scr" id="zwierzaki" style="--cycle:6.0s">
+<section class="scr" id="pulpit" style="--cycle:11.2s">
+<div class="shot"><img src="img/pulpit.jpg" alt="Ekran Pulpit z przykładowymi danymi" width="780" height="1688" loading="lazy"><span class="tap" data-n="1" style="left:90.52%;top:5.04%;--d:0.0s" aria-hidden="true">1</span><span class="tap" data-n="2" style="left:5.13%;top:12.09%;--d:1.6s" aria-hidden="true">2</span><span class="tap" data-n="3" style="left:21.79%;top:34.95%;--d:3.2s" aria-hidden="true">3</span><span class="tap" data-n="4" style="left:68.45%;top:36.73%;--d:4.8s" aria-hidden="true">4</span><span class="tap" data-n="5" style="left:21.79%;top:53.91%;--d:6.4s" aria-hidden="true">5</span><span class="tap" data-n="6" style="left:21.79%;top:69.67%;--d:8.0s" aria-hidden="true">6</span><span class="tap" data-n="7" style="left:42.97%;top:35.78%;--d:9.6s" aria-hidden="true">7</span></div>
+<div><h2>Pulpit</h2><p>Pulpit to ekran startowy. Od razu widać, które zwierzaki wymagają uwagi i co trzeba zrobić.</p><ol class="steps"><li data-n="1"><span class="n">1</span><span>Dzwonek otwiera <b>ustawienia przypomnień</b>: co ile miesięcy które badanie, przypomnienia jednorazowe i powiadomienia.</span></li><li data-n="2"><span class="n">2</span><span>Kafelek zwierzaka otwiera jego <b>profil</b>. Kafelki są ułożone od zwierzaka, który najpilniej wymaga uwagi. „Zaległe” to liczba badań po terminie.</span></li><li data-n="3"><span class="n">3</span><span><b>Dodaj wpis</b> otwiera formularz wizyty od razu z właściwym zwierzakiem i badaniem.</span></li><li data-n="4"><span class="n">4</span><span>Dzwonek przy alercie pokazuje go od razu jako powiadomienie w telefonie – tak to będzie wyglądać.</span></li><li data-n="5"><span class="n">5</span><span>Alert o kończącym się leku prowadzi do karty <b>Leki</b>, gdzie uzupełnisz zapas.</span></li><li data-n="6"><span class="n">6</span><span><b>Zalecenie</b> otwiera wpis z wizyty, z którego pochodzi przypomnienie.</span></li><li data-n="7"><span class="n">7</span><span><b>Przesuń</b> – przypomni o zaległym badaniu ponownie za 1, 2, 3 albo 6 miesięcy. Każdy zaległy termin można przesunąć raz; nowy wpis z tym badaniem liczy termin od nowa.</span></li></ol></div></section><section class="scr" id="zwierzaki" style="--cycle:6.0s">
 <div class="shot"><img src="img/zwierzaki.jpg" alt="Ekran Zwierzaki z przykładowymi danymi" width="780" height="1688" loading="lazy"><span class="tap" data-n="1" style="left:5.13%;top:8.89%;--d:0.0s" aria-hidden="true">1</span><span class="tap" data-n="2" style="left:68.46%;top:10.66%;--d:1.6s" aria-hidden="true">2</span><span class="tap" data-n="3" style="left:59.29%;top:4.38%;--d:3.2s" aria-hidden="true">3</span></div>
 <div><h2>Zwierzaki</h2><p>Lista wszystkich zwierzaków – najpierw te, które pilnie potrzebują badań.</p><ol class="steps"><li data-n="1"><span class="n">1</span><span>Dotknij zwierzaka, aby otworzyć jego <b>profil</b> z podsumowaniem zdrowia, dietą, terminami i historią. Kolejność: najpierw ci, którzy mają najwięcej do zrobienia.</span></li><li data-n="2"><span class="n">2</span><span>Dotknij zdjęcia, aby <b>wgrać i wykadrować</b> nowe.</span></li><li data-n="3"><span class="n">3</span><span><b>+ Dodaj zwierzaka</b>: gatunek (kot albo pies), imię, data urodzenia (dokładna lub przybliżona), rasa, umaszczenie, waga, chip. Dla psa aplikacja stosuje psie normy i przypomnienia.</span></li></ol></div></section><section class="scr" id="profil" style="--cycle:11.2s">
 <div class="shot"><img src="img/profil.jpg" alt="Ekran Profil zwierzaka z przykładowymi danymi" width="780" height="2436" loading="lazy"><span class="tap" data-n="1" style="left:93.05%;top:3.94%;--d:0.0s" aria-hidden="true">1</span><span class="tap" data-n="2" style="left:5.13%;top:25.12%;--d:1.6s" aria-hidden="true">2</span><span class="tap" data-n="3" style="left:5.13%;top:38.92%;--d:3.2s" aria-hidden="true">3</span><span class="tap" data-n="4" style="left:85.45%;top:47.58%;--d:4.8s" aria-hidden="true">4</span><span class="tap" data-n="5" style="left:8.46%;top:77.18%;--d:6.4s" aria-hidden="true">5</span><span class="tap" data-n="6" style="left:6.15%;top:58.7%;--d:8.0s" aria-hidden="true">6</span><span class="tap" data-n="7" style="left:75.27%;top:61.95%;--d:9.6s" aria-hidden="true">7</span></div>

diff --git a/index.html b/index.html
@@ -47,7 +47,7 @@ a{color:var(--acc)}.mut{color:var(--mut);font-size:15px}
 <div class="shots"><a href="img/01_pulpit-duzy.jpg"><img src="img/01_pulpit.jpg" alt="Pulpit" loading="lazy" width="540" height="960"></a><a href="img/02_zwierzaki-duzy.jpg"><img src="img/02_zwierzaki.jpg" alt="Lista zwierzaków" loading="lazy" width="540" height="960"></a><a href="img/03_profil-duzy.jpg"><img src="img/03_profil.jpg" alt="Profil – stan zdrowia i terminy" loading="lazy" width="540" height="960"></a><a href="img/04_opieka-duzy.jpg"><img src="img/04_opieka.jpg" alt="Profil – dieta, fizjoterapia i notatki" loading="lazy" width="540" height="960"></a><a href="img/05_wykresy-duzy.jpg"><img src="img/05_wykresy.jpg" alt="Wykresy wyników" loading="lazy" width="540" height="960"></a><a href="img/06_leki-duzy.jpg"><img src="img/06_leki.jpg" alt="Leki i zapasy" loading="lazy" width="540" height="960"></a><a href="img/07_kalendarz-duzy.jpg"><img src="img/07_kalendarz.jpg" alt="Kalendarz" loading="lazy" width="540" height="960"></a><a href="img/08_import-duzy.jpg"><img src="img/08_import.jpg" alt="Import wyników" loading="lazy" width="540" height="960"></a><a href="img/09_dane-duzy.jpg"><img src="img/09_dane.jpg" alt="Kopia zapasowa i wygląd" loading="lazy" width="540" height="960"></a></div>
 <p class="get"><a class="dl guide" href="podrecznik/">Podręcznik użytkownika</a><span>co można zrobić na każdym ekranie aplikacji</span></p>
 <h2>Co nowego</h2>
-<!--NOWE--><section class="ver"><h2>0.21.2 <span>25.11.2026</span></h2><ul><li>Ocena bólu otwiera się jako zwykły ekran aplikacji – przycisk „Zapisz” jest zawsze nad dolnym paskiem i nie chowa się pod przyciskami telefonu.</li><li>Skrót „Oceń ból z mimiki pyszczka” w profilu kota i w Wykresach.</li></ul></section><p><a href="zmiany/">Pełna historia zmian</a></p><!--/NOWE-->
+<!--NOWE--><section class="ver"><h2>0.22.0 <span>25.11.2026</span></h2><ul><li>Pulpit: przy zaległym przypomnieniu jest przycisk „Przesuń” – przypomni ponownie za 1, 2, 3 albo 6 miesięcy. Każdy zaległy termin można przesunąć raz; nowy wpis z tym badaniem liczy termin od nowa.</li><li>Przesunięty termin jest oznaczony w profilu zwierzaka i w opisie przypomnienia.</li></ul></section><p><a href="zmiany/">Pełna historia zmian</a></p><!--/NOWE-->
 <p><a href="polityka-prywatnosci/">Polityka prywatności</a></p>
 <p>Aplikacja nie zastępuje porady lekarza weterynarii. Jej główny cel to pomoc właścicielom w pilnowaniu terminów badań i zebranie wszystkich wyników z różnych lecznic w jednym miejscu, na telefonie właściciela. Także po to, by pamiętać o wszystkim przy kolejnej wizycie u weterynarza. Powstała z myślą o moim stadzie, rozwijam ją po pracy. Jeśli pomogła Twoim kotom, postaw karmę moim (bo karma wraca) ;)</p>
 <p class="get"><a class="dl support" href="https://buycoffee.to/kitkuapp">Postaw kotkom karmę</a><span>wsparcie rozwoju aplikacji przez buycoffee.to</span></p>

diff --git a/tools/podrecznik/screens.py b/tools/podrecznik/screens.py
@@ -26,7 +26,7 @@ S.append(("pulpit", "Pulpit", "Pulpit to ekran startowy. Od razu widać, które 
  </div>
  <h2>Wymaga uwagi <span class="mut">3 pozycje</span></h2>
  <div class="card"><div class="row" style="align-items:flex-start">{AV(*M)}<div class="grow"><div class="b">Morfologia krwi</div><div class="mut">Ostatnio 02.05.2026 · co 6 mies.</div>
-  <div class="row" style="margin-top:8px"><span class="btn"{T(3)}>Dodaj wpis</span><span style="font-size:18px;color:#56635D;margin-left:6px"{T(4)}>🔔</span></div></div><span class="pill over">po terminie</span></div></div>
+  <div class="row" style="margin-top:8px"><span class="btn"{T(3)}>Dodaj wpis</span><span class="btn o" style="margin-left:6px"{T(7)}>Przesuń</span><span style="font-size:18px;color:#56635D;margin-left:6px"{T(4)}>🔔</span></div></div><span class="pill over">po terminie</span></div></div>
  <div class="card"><div class="row" style="align-items:flex-start">{AV(*M)}<div class="grow"><div class="b">Kończy się Gastricaid – zapas na 5 dni</div><div class="mut">Zostało 22,5 ml · 4,5 ml dziennie · Mruczek, Pestka</div>
   <div class="row" style="margin-top:8px"><span class="btn"{T(5)}>Leki</span></div></div><span class="pill soon">wkrótce</span></div></div>
  <div class="card"><div class="row" style="align-items:flex-start">{AV(*P)}<div class="grow"><div class="b">Kontrola USG</div><div class="mut">Zalecenie z wizyty 20.05.2026 · termin 20.11.2026</div>
@@ -38,6 +38,7 @@ S.append(("pulpit", "Pulpit", "Pulpit to ekran startowy. Od razu widać, które 
  (4, "Dzwonek przy alercie pokazuje go od razu jako powiadomienie w telefonie – tak to będzie wyglądać."),
  (5, "Alert o kończącym się leku prowadzi do karty <b>Leki</b>, gdzie uzupełnisz zapas."),
  (6, "<b>Zalecenie</b> otwiera wpis z wizyty, z którego pochodzi przypomnienie."),
+ (7, "<b>Przesuń</b> – przypomni o zaległym badaniu ponownie za 1, 2, 3 albo 6 miesięcy. Każdy zaległy termin można przesunąć raz; nowy wpis z tym badaniem liczy termin od nowa."),
 ]))
 
 # 2. Zwierzaki

diff --git a/CHANGELOG.md b/CHANGELOG.md
@@ -1,5 +1,9 @@
 # Historia zmian KitkuApp
 
+## 0.22.0 — 25.11.2026
+- Pulpit: przy zaległym przypomnieniu jest przycisk „Przesuń” – przypomni ponownie za 1, 2, 3 albo 6 miesięcy. Każdy zaległy termin można przesunąć raz; nowy wpis z tym badaniem liczy termin od nowa.
+- Przesunięty termin jest oznaczony w profilu zwierzaka i w opisie przypomnienia.
+
 ## 0.21.2 — 25.11.2026
 - Ocena bólu otwiera się jako zwykły ekran aplikacji – przycisk „Zapisz” jest zawsze nad dolnym paskiem i nie chowa się pod przyciskami telefonu.
 - Skrót „Oceń ból z mimiki pyszczka” w profilu kota i w Wykresach.
